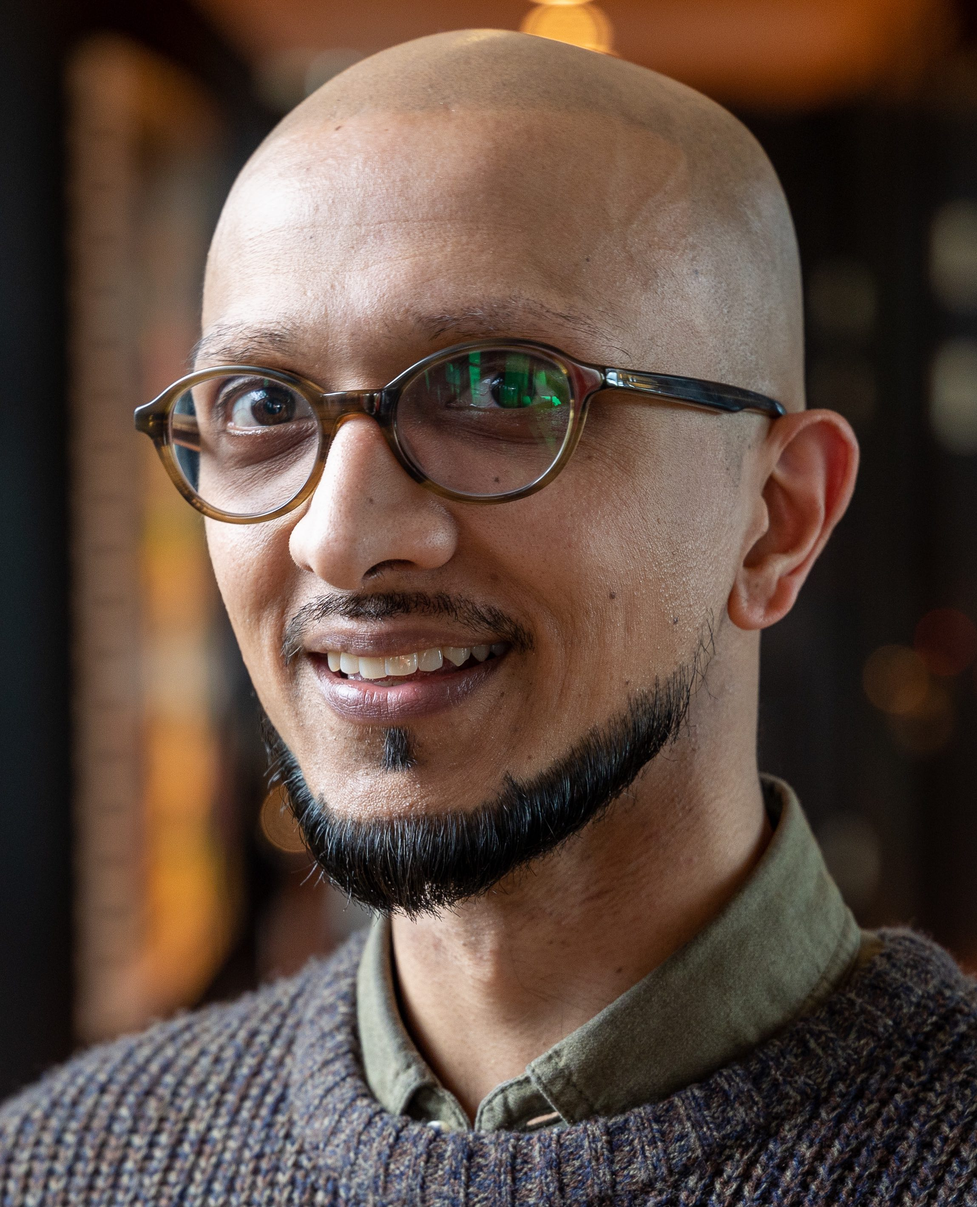
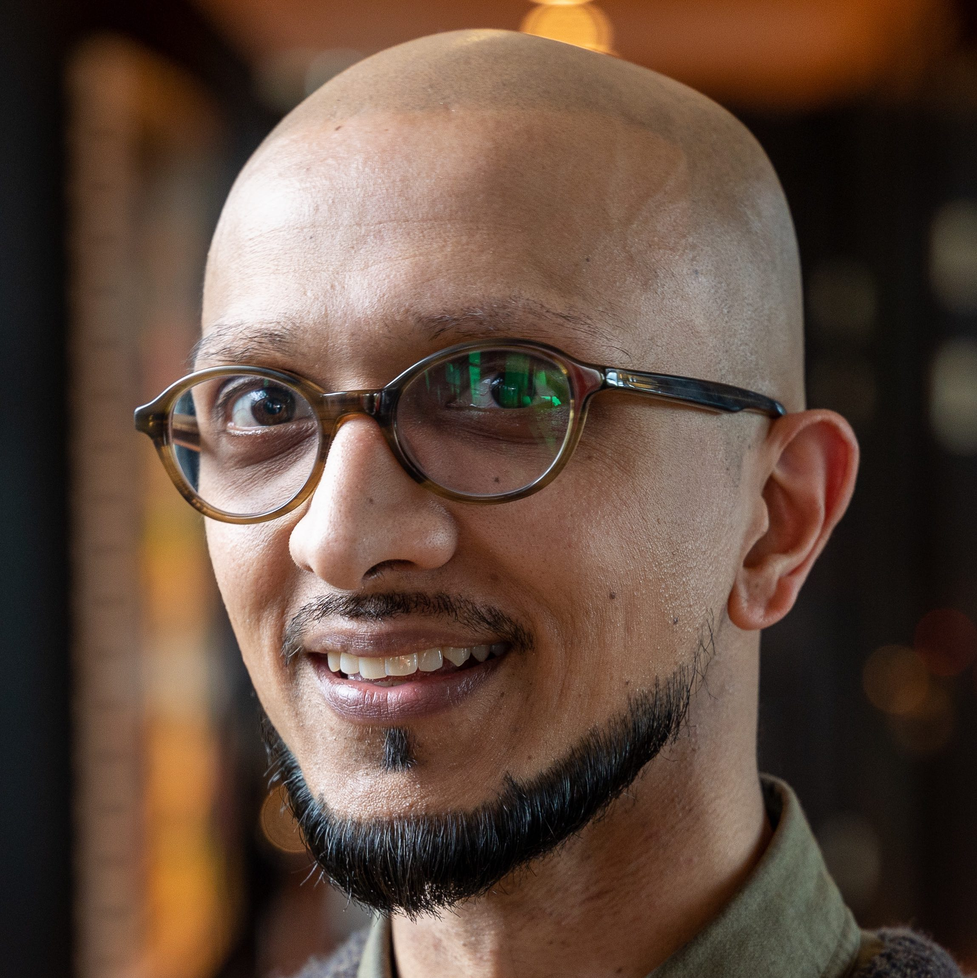
visual adjustments

diff --git a/index.html b/index.html
@@ -17,7 +17,7 @@
 	:root {
 
 		/* Colours */
-		--black:          #000000;
+		--black:          #131313;
 		--dark-blue:      #001433;
 		--light-blue:     #005ac2;
 		--blue:           #004878;
@@ -26,7 +26,7 @@
 		--dark-green:     #004d00;
 		--yellow:         #ffe75d;
 		--dark-grey:      #8d8d8d;
-		--light-grey:     #e9e9e9;
+		--light-grey:     #e0e0e0;
 		--grey:           #cccccc;
 		--white:          #ffffff;
 
@@ -71,6 +71,7 @@
 
 	/** --- Root defaults --- */
 	html {
+		height: 100%;
 		font-size: 16px;
 		font-family: Arial, Helvetica, sans-serif;
 	}
@@ -82,9 +83,17 @@
 
 	/** --- Body defaults --- */
 	body {
+		height: 100%;
 		padding: 0 1rem;
 		font-size: var(--base-font-size);
 		line-height: 1.5;
+	}
+	@media (min-width: 650px) {
+		body { 
+			background: url('background.jpg') no-repeat var(--black);
+			background-size: cover;
+			background-position: bottom; 
+		}
 	}
 
 	/** --- Structures ---- **/
@@ -92,11 +101,18 @@
 		margin: 0 auto;
 		padding: var(--base-space-xs);
 	}
+	.block {
+		padding: var(--base-space-sm);
+	}
 	@media (min-width: 650px) {
 		.container {
 			margin: 0 auto;
 			padding: var(--base-space-xxl);
 			max-width: 1026px;
+		}
+		footer .container {
+			align-self: self-end;
+			width: 100%;
 		}
 		.row {
 			display: flex;
@@ -104,6 +120,9 @@
 		}
 		.half {
 			width: 50%;
+		}
+		.block {
+			background-color: var(--white);
 		}
 	}
 
@@ -155,10 +174,10 @@
 	img,
 	picture {
 		width: 100%;
-		max-width: 400px;
+		max-width: 300px;
 		display: block;
 		margin: 0 auto;
-		border-radius: 2%;
+		border-radius: 50%;
 	}
 
 	/** --- Content default styles --- */
@@ -175,12 +194,12 @@
 	}
 	main {
 		margin-top: var(--base-space-xxl);
-		margin-bottom: var(--base-space-sm);
-		border-bottom: solid 1px var(--grey);
 	}
 	@media (min-width: 650px) {
-		main {
-			margin-bottom: 0;
+		footer {
+			height: 100%;
+			display: flex;
+			max-height: 40rem;
 		}
 	}
 
@@ -197,9 +216,10 @@
 		font-size: 1.7rem;
 		margin-bottom: var(--base-space-sm);
 	}
-	h3 {
-		font-size: 1.4rem;
-		margin-bottom: var(--base-space-xs);
+	@media (min-width: 650px) {
+		h2 {
+		color: var(--white);
+	}
 	}
 
 	/** --- Links ---- **/
@@ -221,6 +241,16 @@
 		padding: var(--base-space) var(--base-space-sm);
 	}
 
+	@media (min-width: 650px) {
+		footer a {
+			color: var(--white);
+		}
+		footer a:hover,
+		footer a:focus {
+			color: var(--yellow);
+		}
+	}
+
 	/** --- Lists ---- **/
 	.list--none {
 		padding: 0;
@@ -240,13 +270,15 @@
 		<div class="container">
 			<div class="row">
 				<div class="half">
-					<h1>
-						<span>Usman Afzal</span>
-						<span>Accessibility specialist</span>
-					</h1>
-					<p>Hi there, I'm Usman Afzal. I'm an accessibility trainer and experience technologist.</p>
-					<p>I have over 15 years experience working within the public, private and third sectors.</p>
-					<p>I'm currently Web Development Trainer at <a href="https://www.hassellinclusion.com">Hassell Inclusion</a>.</p>
+					<div class="block">
+						<h1>
+							<span>Usman Afzal</span>
+							<span>Accessibility specialist</span>
+						</h1>
+						<p>Hi there, I'm Usman Afzal. I'm an accessibility trainer and experience technologist.</p>
+						<p>I have over 15 years experience working within the public, private and third sectors.</p>
+						<p>I'm currently Web Development Trainer at <a href="https://www.hassellinclusion.com">Hassell Inclusion</a>.</p>
+					</div>
 				</div>
 				<div class="half">
 					<img src="usman-afzal.jpg" alt="Usman Afzal">
